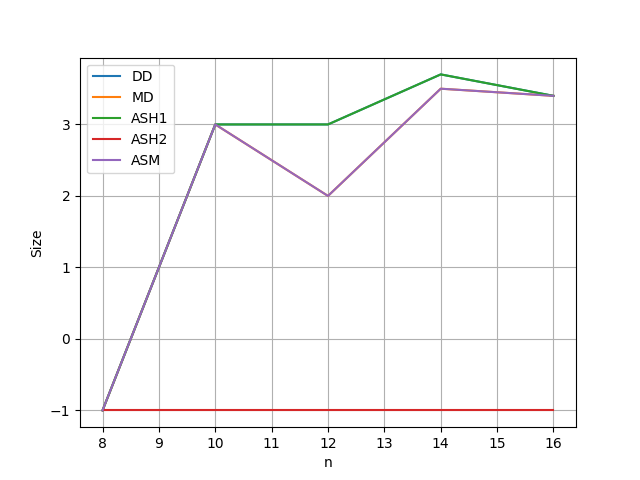
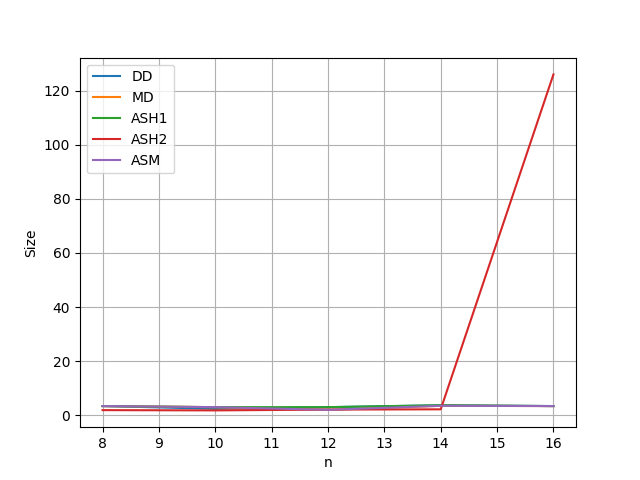
h2 plt

diff --git a/pltgraph.py b/pltgraph.py
@@ -7,8 +7,8 @@ md_time = [1.74, 2.01, 3.79, 2.6, 0.825]
 md_res = [3.4, 3, 2, 3.5, 3.4]
 ash1_time = [0.0014, 0.00499, 0.00367, 0.00501, 0.00378]
 ash1_res = [3.4, 3, 3, 3.7, 3.4]
-ash2_time = [4.55, 27.7, 56.4, 1.17, -1]
-ash2_res = [1.9,1.8, 2.1, 2.2, -1]
+ash2_time = [4.55, 27.7, 56.4, 1.17, 2.4]
+ash2_res = [1.9,1.8, 2.1, 2.2, 126]
 asm_time = [2.53, 7.11, 0.187, 2.06, 6.01]
 asm_res = [3.4, 3, 2, 3.5, 3.4]
 
@@ -23,7 +23,7 @@ plt.xlabel("n")
 plt.ylabel("Time (s)")
 plt.legend()
 plt.grid()
-plt.savefig("\img\pltgraph_time.png")
+plt.savefig(".\img\pltgraph_time.png")
 
 plt.figure()
 plt.plot(n, dd_res, label="DD")
@@ -36,4 +36,4 @@ plt.xlabel("n")
 plt.ylabel("Size")
 plt.legend()
 plt.grid()
-plt.savefig("\img\pltgraph_res.png")
+plt.savefig(".\img\pltgraph_res.png")
